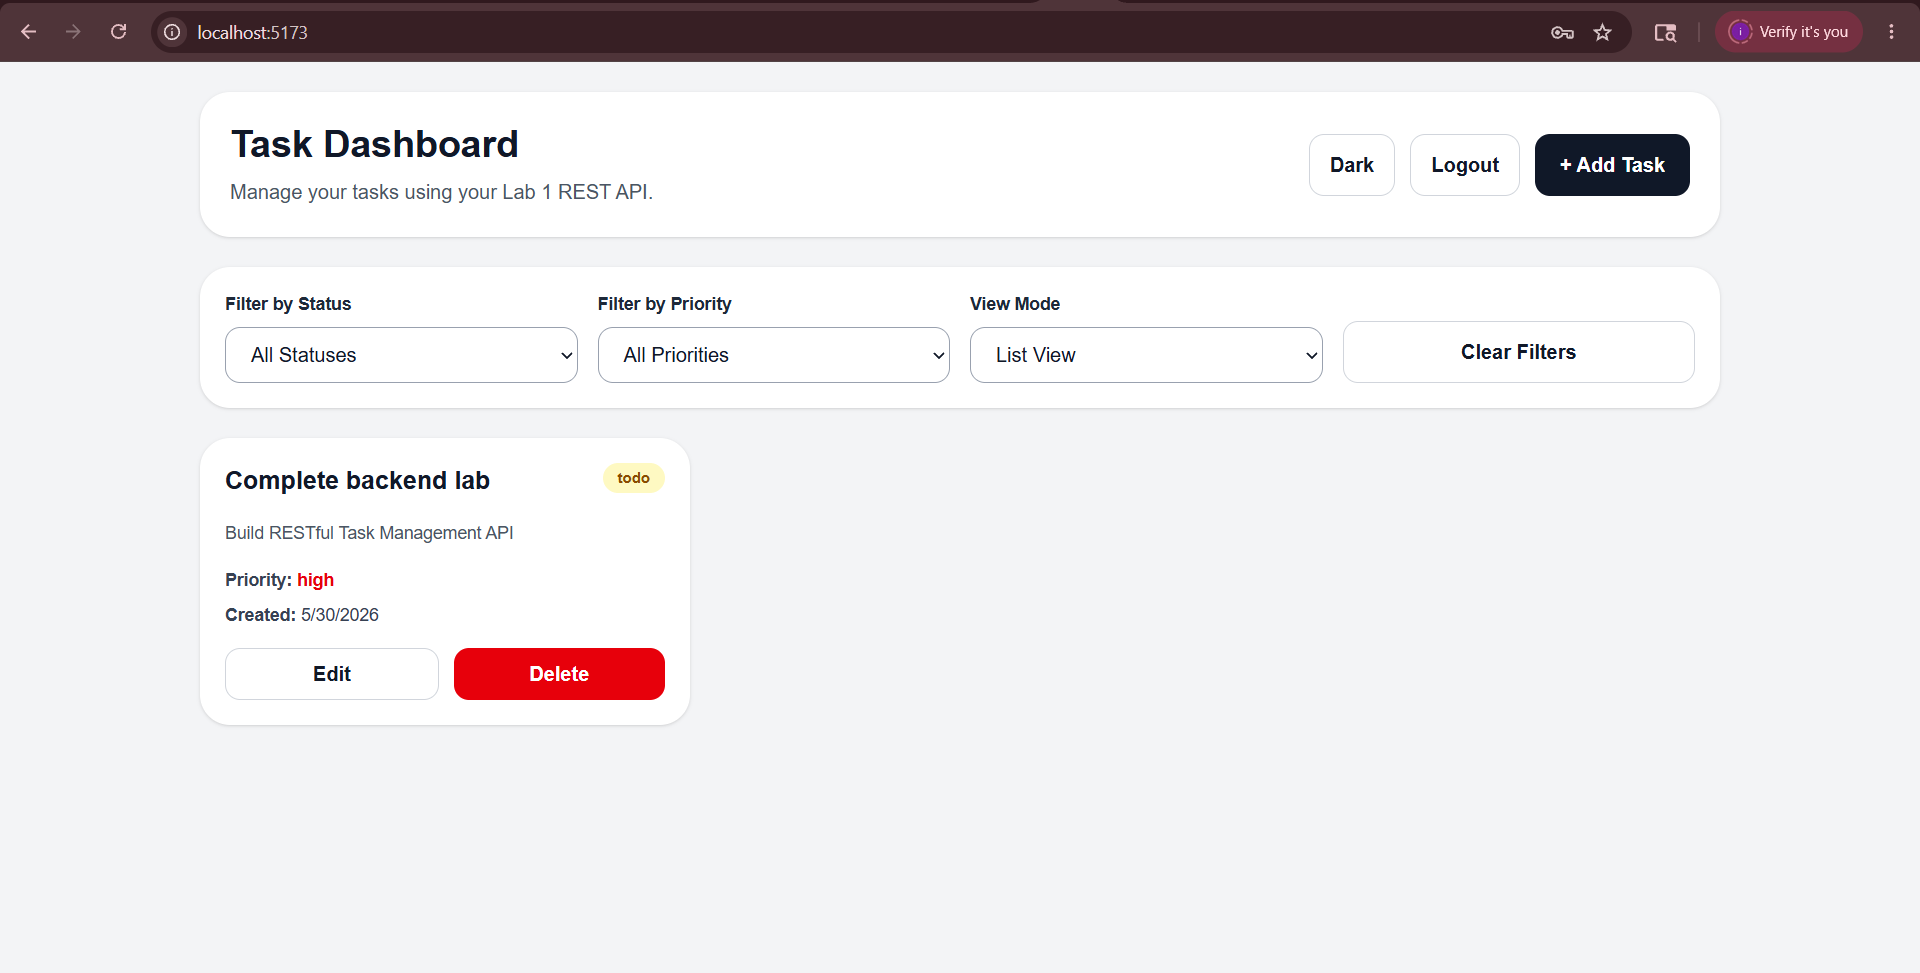
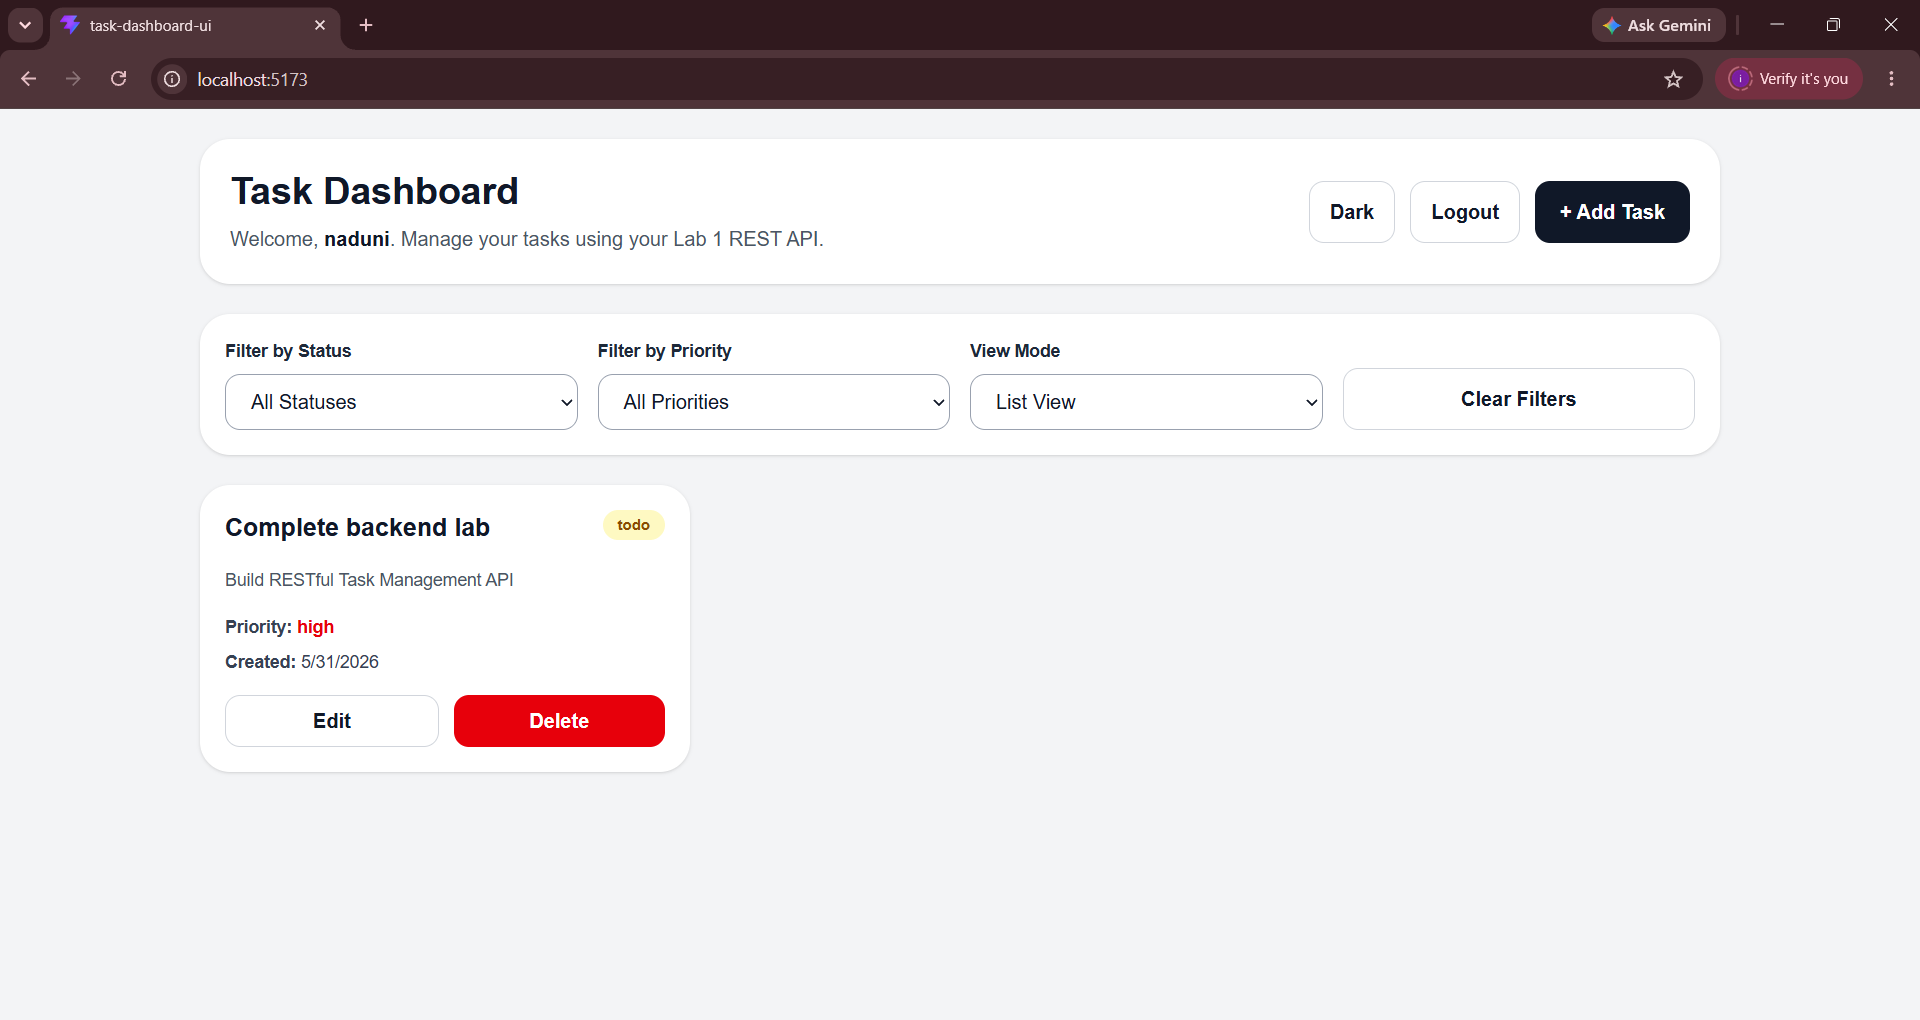
Update README and screenshots

diff --git a/README.md b/README.md
@@ -31,6 +31,7 @@ https://idyllic-horse-c2284e.netlify.app/
 ## Main Features
 
 * User registration and login using JWT authentication
+* Logged-in user name display on the dashboard
 * Task list displayed in a responsive card layout
 * Color-coded status badges
 * Priority display for each task
@@ -116,9 +117,9 @@ First, start the Lab 1 backend API server on port 3000.
 
 Then start the Lab 2 frontend using `npm run dev`.
 
-Create a new account using the register form.
+Create a new account using the register form or log in with an existing account.
 
-After registration or login, the user can manage tasks from the dashboard.
+After registration or login, the user is taken to the dashboard, where the logged-in user name is displayed.
 
 Users can add, edit, delete, filter, and view tasks in both list view and Kanban view.
 
@@ -170,7 +171,7 @@ public/screenshots
 
 ### Dashboard List View
 
-![Dashboard List View](public/screenshots/Dashboardpage.png)
+![Dashboard List View](public/screenshots/DashBoardPage.png)
 
 ### Add Task Modal
 
@@ -190,7 +191,7 @@ public/screenshots
 
 ### Dark Mode
 
-![Dark Mode](public/screenshots/Darkmode.png)
+![Dark Mode](public/screenshots/DarkMode.png)
 
 ## Assessment Requirement Coverage
 
